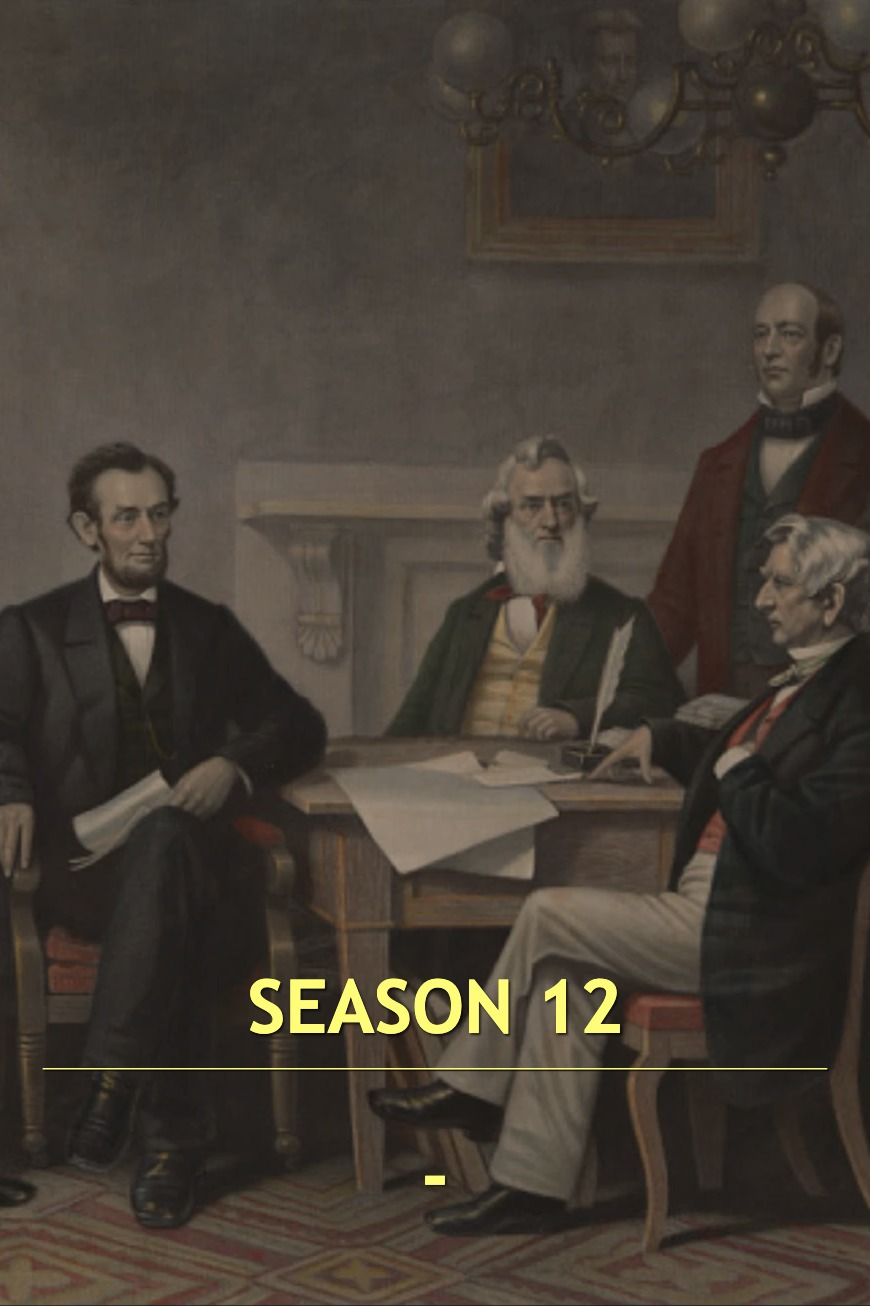
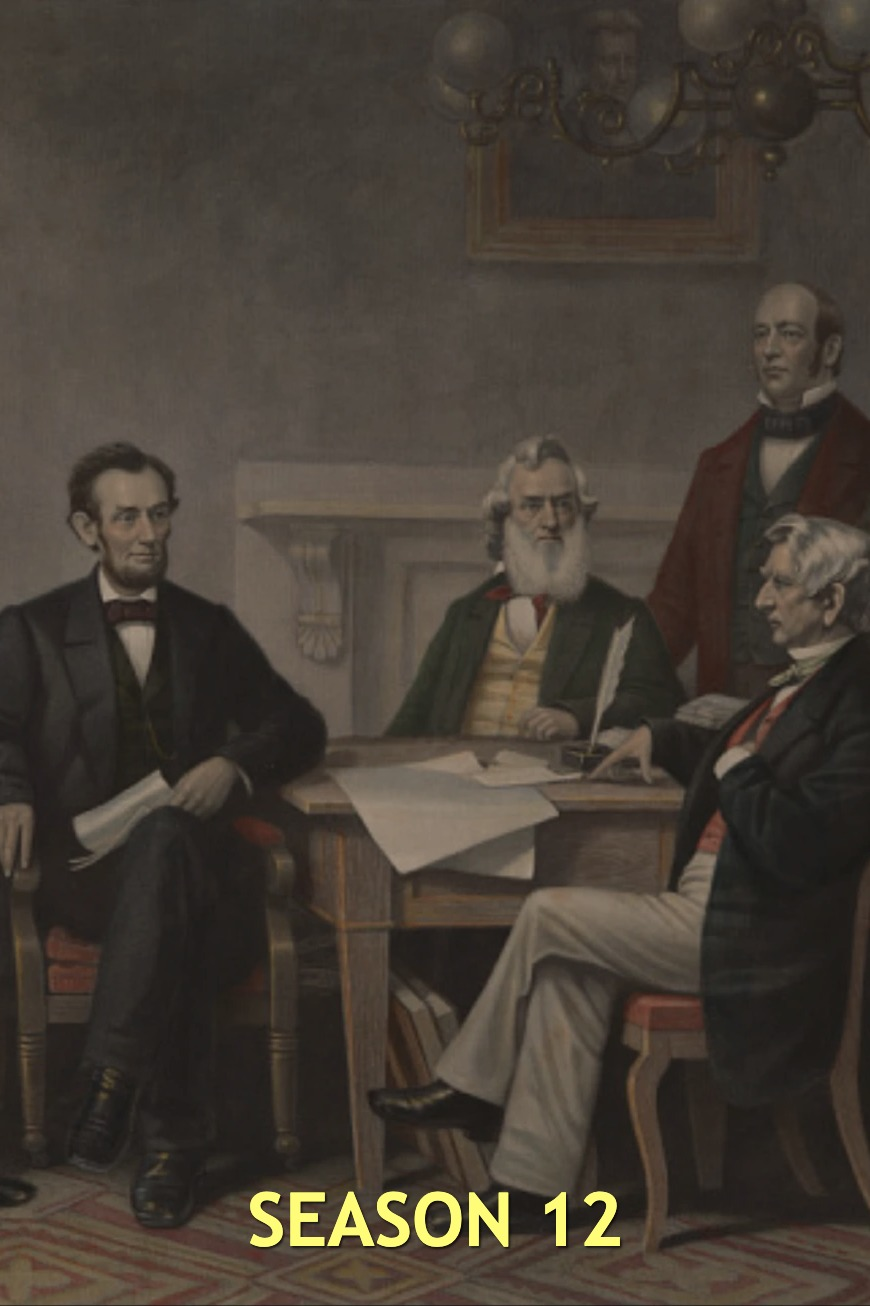
Put a design's lone line of text in the same place for every item, and stop reserving space for a title that does not exist.

diff --git a/Jellyfin.Plugin.EpisodePosterGenerator/Services/Posters/Types/Cutout.cs b/Jellyfin.Plugin.EpisodePosterGenerator/Services/Posters/Types/Cutout.cs
@@ -96,7 +96,7 @@ namespace Jellyfin.Plugin.EpisodePosterGenerator.Services.Posters
             var safeArea = GetSafeAreaBounds(width, height, settings);
             using var titleStyle = CreateTitleStyle(settings, unit);
 
-            var column = BuildColumn(safeArea, settings, unit, titleStyle);
+            var column = BuildColumn(safeArea, settings, unit, titleStyle, true);
             if (column.TryGetSlot(TitleBlock, out var titleSlot))
             {
                 DrawTitleInSlot(skCanvas, subject.Title, titleStyle, titleSlot, titleSlot.MidX, titleSlot.Width * RenderConstants.TextWidthMultiplier, settings.LongTitleHandling);
@@ -114,10 +114,10 @@ namespace Jellyfin.Plugin.EpisodePosterGenerator.Services.Posters
         // The one description of the vertical layout: a fixed two line title zone against the
         // bottom of the safe area. The cutout takes whatever the column leaves, so the title and
         // the letters are measured from the same numbers and cannot collide.
-        private static LayoutColumn BuildColumn(SKRect safeArea, PosterSettings settings, int unit, TextStyle titleStyle)
+        private static LayoutColumn BuildColumn(SKRect safeArea, PosterSettings settings, int unit, TextStyle titleStyle, bool reserveTitle)
         {
             return new LayoutColumn(safeArea, GetElementSpacing(settings, unit), LayoutAnchor.Bottom)
-                .Add(TitleBlock, settings.ShowTitle ? titleStyle.BlockHeight(2) : 0f);
+                .Add(TitleBlock, settings.ShowTitle && reserveTitle ? titleStyle.BlockHeight(2) : 0f);
         }
 
         // CalculateCutoutArea
@@ -130,7 +130,7 @@ namespace Jellyfin.Plugin.EpisodePosterGenerator.Services.Posters
             }
 
             using var titleStyle = CreateTitleStyle(config, unit);
-            var remaining = BuildColumn(safeArea, config, unit, titleStyle).Remaining;
+            var remaining = BuildColumn(safeArea, config, unit, titleStyle, reserveTitle).Remaining;
 
             var minHeight = safeArea.Height * MinimumCutoutAreaRatio;
             return remaining.Height >= minHeight
@@ -150,7 +150,10 @@ namespace Jellyfin.Plugin.EpisodePosterGenerator.Services.Posters
             }
 
             var safeArea = GetSafeAreaBounds(canvasWidth, canvasHeight, config);
-            var cutoutArea = CalculateCutoutArea(safeArea, config, SizeUnit(canvasWidth, canvasHeight), !subject.CutoutIsTitle);
+            // Nothing is held back for a title the item does not have, such as a season named after
+            // nothing but its number.
+            var reserveTitle = !subject.CutoutIsTitle && !string.IsNullOrWhiteSpace(subject.Title);
+            var cutoutArea = CalculateCutoutArea(safeArea, config, SizeUnit(canvasWidth, canvasHeight), reserveTitle);
             var typeface = ResolveEpisodeTypeface(config, FontUtils.GetFontStyle(config.EpisodeFontStyle));
             float fontSize = CalculateOptimalCutoutFontSize(words, typeface, cutoutArea);
 

diff --git a/Jellyfin.Plugin.EpisodePosterGenerator/Services/Posters/Types/Frame.cs b/Jellyfin.Plugin.EpisodePosterGenerator/Services/Posters/Types/Frame.cs
@@ -57,14 +57,18 @@ namespace Jellyfin.Plugin.EpisodePosterGenerator.Services.Posters
             var showTitle = settings.ShowTitle && !string.IsNullOrEmpty(subject.Title);
             var showSubtitle = settings.ShowEpisode && !string.IsNullOrEmpty(subject.Label);
 
-            // Automatic keeps the title at the top while a subtitle holds the bottom, and moves it
-            // down when there is none, so a series does not leave the bottom edge bare.
+            // Automatic pairs them as title over subtitle, and drops a lone line to the bottom.
+            var bothDrawn = showTitle && showSubtitle;
             var titleAtBottom = settings.TitleEdge switch
             {
                 TitleEdge.Top => false,
                 TitleEdge.Bottom => true,
-                _ => !showSubtitle
+                _ => !bothDrawn
             };
+
+            // Whichever line is on its own takes the title's edge, so a poster carrying one line
+            // always puts it in the same place, whether that line is a title or a subtitle.
+            var subtitleAtBottom = bothDrawn ? !titleAtBottom : titleAtBottom;
 
             TextInfo? topInfo = null;
             TextInfo? bottomInfo = null;
@@ -84,14 +88,14 @@ namespace Jellyfin.Plugin.EpisodePosterGenerator.Services.Posters
 
             if (showSubtitle)
             {
-                var info = DrawEpisodeInfo(skCanvas, subject.Label, settings, unit, safeArea, !titleAtBottom);
-                if (titleAtBottom)
+                var info = DrawEpisodeInfo(skCanvas, subject.Label, settings, unit, safeArea, subtitleAtBottom);
+                if (subtitleAtBottom)
                 {
-                    topInfo = info;
+                    bottomInfo = info;
                 }
                 else
                 {
-                    bottomInfo = info;
+                    topInfo = info;
                 }
             }
 

diff --git a/Jellyfin.Plugin.EpisodePosterGenerator/Services/Posters/IPosterGenerator.cs b/Jellyfin.Plugin.EpisodePosterGenerator/Services/Posters/IPosterGenerator.cs
@@ -160,12 +160,16 @@ namespace Jellyfin.Plugin.EpisodePosterGenerator.Services.Posters
             var parts = subject.NumberParts;
             var label = subject.Label;
             var showEpisode = settings.ShowEpisode && (parts.Count > 1 || label.Length > 0);
-            var showSeparator = settings.ShowTitle && showEpisode;
+
+            // An item can have no title of its own, such as a season named after nothing but its
+            // number. Its zone is not reserved, so nothing is left holding empty space.
+            var showTitle = settings.ShowTitle && !string.IsNullOrWhiteSpace(subject.Title);
+            var showSeparator = showTitle && showEpisode;
 
             var column = new LayoutColumn(area, GetElementSpacing(settings, unit), LayoutAnchor.Bottom)
                 .Add(EpisodeBlock, showEpisode ? episodeStyle.LineBox : 0f)
                 .Add(SeparatorBlock, showSeparator ? RenderConstants.SeparatorSlotHeight(unit) : 0f)
-                .Add(TitleBlock, settings.ShowTitle ? titleStyle.BlockHeight(2) : 0f);
+                .Add(TitleBlock, showTitle ? titleStyle.BlockHeight(2) : 0f);
 
             if (column.TryGetSlot(EpisodeBlock, out var episodeSlot))
             {
@@ -186,7 +190,7 @@ namespace Jellyfin.Plugin.EpisodePosterGenerator.Services.Posters
 
             if (column.TryGetSlot(TitleBlock, out var titleSlot))
             {
-                DrawTitleInSlot(canvas, subject.Title ?? "-", titleStyle, titleSlot, titleSlot.MidX, titleSlot.Width * RenderConstants.TextWidthMultiplier, settings.LongTitleHandling);
+                DrawTitleInSlot(canvas, subject.Title!, titleStyle, titleSlot, titleSlot.MidX, titleSlot.Width * RenderConstants.TextWidthMultiplier, settings.LongTitleHandling);
             }
         }
 
